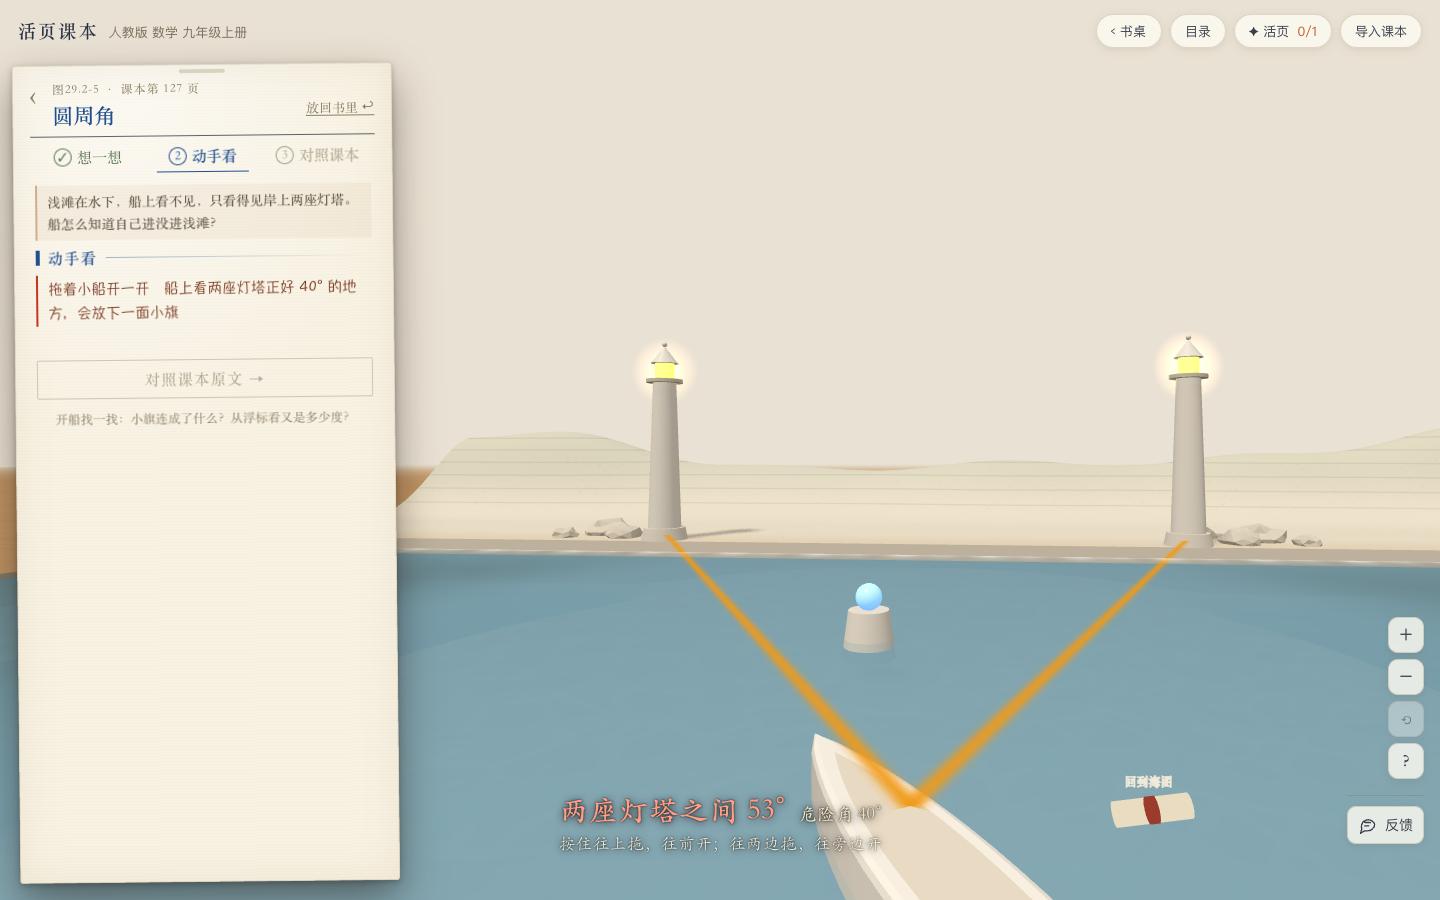
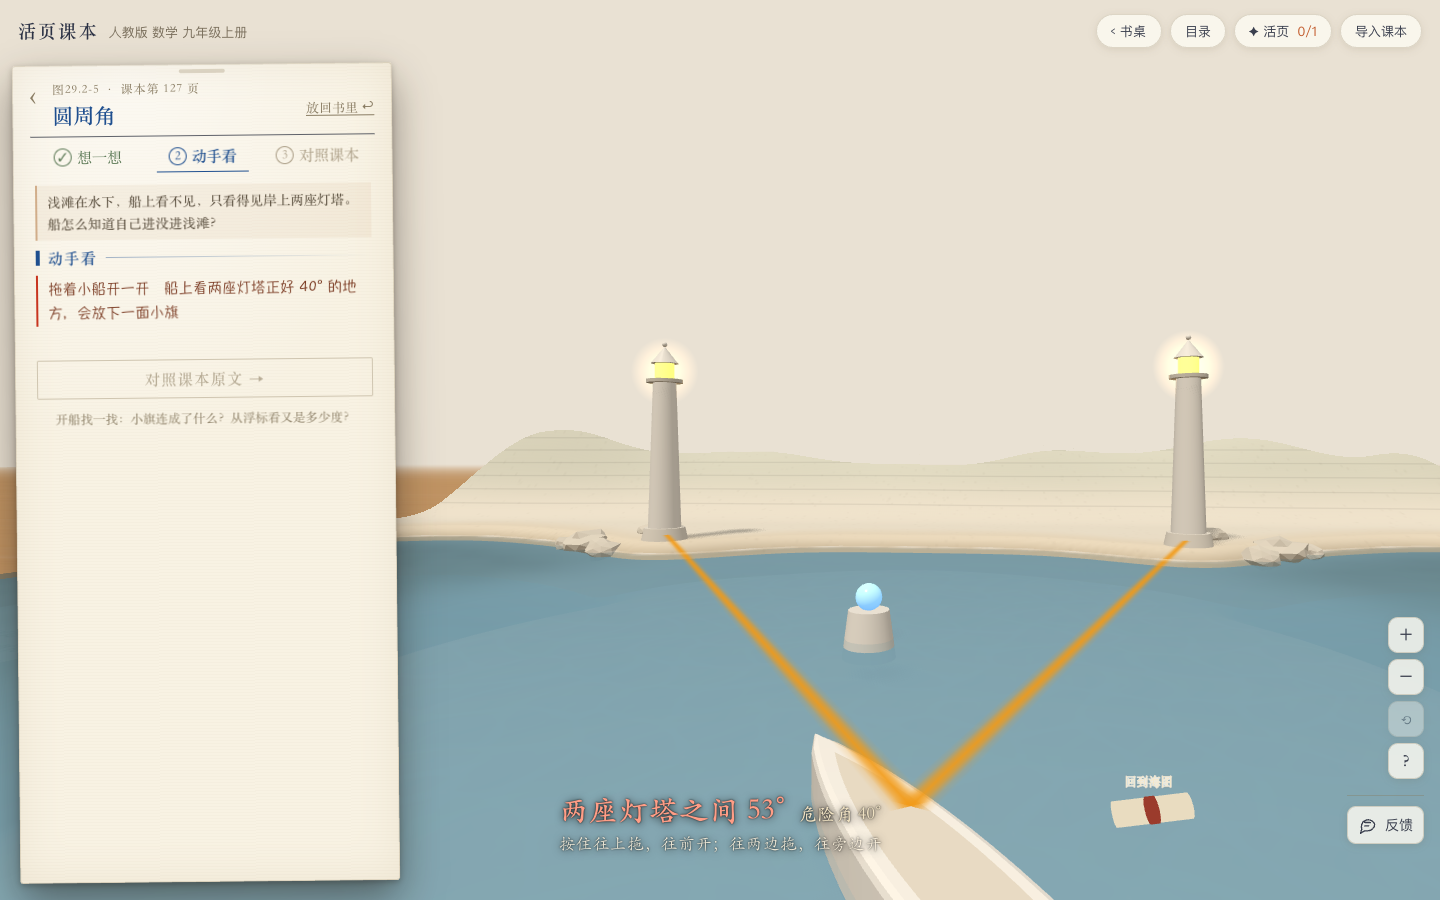
数学圆周角大建模：模型外形不再是方盒子——海那边切得齐整、四角圆，岸上那边边缘随地形起伏；四周的切面沿着外轮廓走一整圈（海那段是水和沙层，岸上那段跟着山形）

Changed region(s): [[0.2812, 0.4978, 1.0, 0.6533]]

diff --git a/src/lessons/inscribed.js b/src/lessons/inscribed.js
@@ -33,6 +33,11 @@ const dirO = (p) => Math.atan2(p[1] - O[1], p[0] - O[0]);
 const AB = dirO(B0), AC = dirO(C0) + TAU;                     // 圆在海里的那段弧：从 B 逆时针经过最下面到 C
 const shore = (u) => { const a = Math.abs(u); return 0.06 - 0.016 * Math.exp(-(((a - 0.06) / 0.022) ** 2)) + 0.012 * Math.exp(-(((a - 0.125) / 0.03) ** 2)); };          // 海岸线：两座灯塔站在伸进海里的岬角上，岬角外侧各有一个小湾
 const VMAX = 0.076;          // 水面、海底一直铺到这里（被岸盖住的那部分看不见）
+const OUT_BX = 0.172, OUT_CY = (-0.172 + 0.135) / 2, OUT_BY = (0.135 + 0.172) / 2, OUT_R = 0.036;
+const sm = (a, b, x) => { const t = Math.min(1, Math.max(0, (x - a) / (b - a))); return t * t * (3 - 2 * t); };
+const outD = (u, v) => { const qx = Math.abs(u) - OUT_BX + OUT_R, qy = Math.abs(v - OUT_CY) - OUT_BY + OUT_R; const base = Math.hypot(Math.max(qx, 0), Math.max(qy, 0)) + Math.min(Math.max(qx, qy), 0) - OUT_R; return base + sm(0.05, 0.1, v) * (0.0098 + 0.0045 * Math.sin(u * 47 + 1.3) + 0.0015 * Math.sin(u * 113) + 0.0035 * Math.sin(v * 71) * sm(0.1, 0.16, Math.abs(u))); };          // 模型外轮廓：小于 0 在里面
+const f5 = (x) => x.toFixed(5);
+const OUT_FN = `float outD(vec2 p){ vec2 q = vec2(abs(p.x) - ${f5(OUT_BX - OUT_R)}, abs(p.y - (${f5(OUT_CY)})) - ${f5(OUT_BY - OUT_R)}); float base = length(max(q, 0.0)) + min(max(q.x, q.y), 0.0) - ${f5(OUT_R)}; return base + smoothstep(0.05, 0.1, p.y) * (0.0098 + 0.0045 * sin(p.x * 47.0 + 1.3) + 0.0015 * sin(p.x * 113.0) + 0.0035 * sin(p.y * 71.0) * smoothstep(0.1, 0.16, abs(p.x))); }`;
 const inSea = (p) => p[0] > SEA.u0 + 0.008 && p[0] < SEA.u1 - 0.008 && p[1] > SEA.v0 + 0.008 && p[1] < shore(p[0]) - 0.012;
 const central = () => angAt(O, B0, C0);
 
@@ -62,6 +67,7 @@ export default {
     const root = new THREE.Group(); root.add(group); group.position.y = H;
     const tex = (w, h, draw) => { const c = document.createElement('canvas'); c.width = w; c.height = h; draw(c.getContext('2d'), w, h); const t = new THREE.CanvasTexture(c); t.colorSpace = THREE.SRGBColorSpace; t.anisotropy = 8; return t; };
     const basic = (o) => new THREE.MeshBasicMaterial(o);
+    const clip = (mat, ox, oz, name) => { const prev = mat.onBeforeCompile; mat.onBeforeCompile = (sh, r) => { if (prev) prev.call(mat, sh, r); sh.uniforms.uOff = { value: new THREE.Vector2(ox, oz) }; sh.vertexShader = sh.vertexShader.replace('#include <common>', '#include <common>\nuniform vec2 uOff; varying vec2 vPaper;').replace('#include <begin_vertex>', '#include <begin_vertex>\nvPaper = vec2(position.x + uOff.x, -(position.z + uOff.y));'); sh.fragmentShader = sh.fragmentShader.replace('#include <common>', '#include <common>\nvarying vec2 vPaper;\n' + OUT_FN).replace('#include <clipping_planes_fragment>', '#include <clipping_planes_fragment>\nif (outD(vPaper) > 0.0) discard;'); }; mat.customProgramCacheKey = () => 'clip-' + name; return mat; };          // 模型外轮廓外面的那部分不画
     const quiet = (m) => { m.raycast = () => {}; m.userData.noFrame = true; return m; };
     const lit = (o) => new THREE.MeshStandardMaterial({ roughness: 0.8, metalness: 0, ...o });
     const solid = (m) => { m.castShadow = true; m.receiveShadow = true; m.raycast = () => {}; m.userData.noFrame = true; return m; };
@@ -84,14 +90,15 @@ export default {
       g.setAttribute('color', new THREE.BufferAttribute(col, 3)); g.computeVertexNormals();
       const bm = lit({ vertexColors: true, roughness: 0.95, emissive: 0xfffbf0, emissiveIntensity: 0.12, emissiveMap: caustTex });
       bm.onBeforeCompile = (sh) => { sh.fragmentShader = sh.fragmentShader.replace('#include <emissivemap_fragment>', '#include <emissivemap_fragment>\n\ttotalEmissiveRadiance *= smoothstep(0.62, 0.92, vColor.r);'); };          // 光纹只在浅的沙上
-      const bed = quiet(new THREE.Mesh(g, bm)); bed.receiveShadow = true; bed.userData.qaSupport = true; root.add(bed);
+      clip(bm, 0, 0, 'bed'); const bed = quiet(new THREE.Mesh(g, bm)); bed.receiveShadow = true; bed.userData.qaSupport = true; root.add(bed);
     }
     // 切面：上面是水（海里那段）或岸，下面是一层层的沙、泥、岩石
     const YM = H + LAND_H;
     // 岸上的地形：靠海那一带是平的（弧 BC、视线都画在上面），往里慢慢起伏成一道低山，中间（两座灯塔背后）低一点
     const HILL = 0.04, TOP = YM + HILL;
     const hill = (u, v) => { const k = smooth(0.084, BACK_V - 0.002, v), side = 0.58 + 0.42 * smooth(0.02, 0.17, Math.abs(u)), roll = 0.84 + 0.1 * Math.sin(u * 37 + 0.8) + 0.06 * Math.sin(u * 83 - 0.4); return HILL * k * Math.sqrt(k) * side * roll; };
-    const faceTex = (sample) => tex(1024, 200, (g, w, hp) => {
+    const landH = (u, v) => { const sh = shore(u); return hill(u, v) - (LAND_H + 0.0015) * smooth(sh + 0.003, sh - 0.005, v) - 0.016 * smooth(sh - 0.004, sh - 0.012, v); };          // 岸上的高度（比平地高多少；岸线前面斜下去）
+    const faceTex = (sample, W0 = 1024) => tex(W0, 200, (g, w, hp) => {
       const Y = (y) => hp * (1 - y / TOP);
       for (let i = 0; i < w; i++) {
         const s = sample((i + 0.5) / w), top = s.land ? s.top ?? YM : s.bed;
@@ -103,27 +110,36 @@ export default {
     });
     const face = (w, sample, x, z, ry) => { const m = quiet(new THREE.Mesh(new THREE.PlaneGeometry(w, TOP), lit({ map: faceTex(sample), transparent: true, alphaTest: 0.5, roughness: 0.9 }))); m.position.set(x, TOP / 2, z); m.rotation.y = ry; m.receiveShadow = true; m.userData.qaSupport = true; root.add(m); };
     const sideAt = (u, front) => (t) => { const v = front ? SEA.v0 + t * (BACK_V - SEA.v0) : BACK_V - t * (BACK_V - SEA.v0); return v >= shore(u) ? { land: true, top: YM + Math.max(0, hill(u, v)) } : { bed: H - depth(u, v) }; };
-    face(seaW, (t) => ({ bed: H - depth(SEA.u0 + t * seaW, SEA.v0) }), uc, -SEA.v0, 0);
-    face(BACK_V - SEA.v0, sideAt(SEA.u0, false), SEA.u0, -(SEA.v0 + BACK_V) / 2, -Math.PI / 2);
-    face(BACK_V - SEA.v0, sideAt(SEA.u1, true), SEA.u1, -(SEA.v0 + BACK_V) / 2, Math.PI / 2);
-    face(seaW, (t) => ({ land: true, top: YM + hill(SEA.u1 - t * seaW, BACK_V) }), uc, -BACK_V, Math.PI);
+    void face; void sideAt;
+    { // 四周的切面：沿着外轮廓走一圈（海那边是水和沙层，岸上那边跟着地形起伏）
+      const N = 440, pts = [];
+      for (let i = 0; i < N; i++) { const a = (i / N) * TAU, d = [Math.cos(a), Math.sin(a)]; let lo = 0, hi = 0.34; for (let k = 0; k < 40; k++) { const m2 = (lo + hi) / 2; if (outD(d[0] * m2, OUT_CY + d[1] * m2) > 0) hi = m2; else lo = m2; } pts.push([d[0] * lo, OUT_CY + d[1] * lo]); }
+      const Ls = [0]; for (let i = 1; i <= N; i++) Ls.push(Ls[i - 1] + dist(pts[i - 1], pts[i % N])); const per = Ls[N];
+      const surf = (u, v) => (v < shore(u) ? { bed: H - depth(u, v) } : { land: true, top: YM + Math.max(0, landH(u, v)) });
+      const wt = faceTex((t) => { const x = t * per; let i = 0; while (i < N - 1 && Ls[i + 1] < x) i++; const f = (x - Ls[i]) / (Ls[i + 1] - Ls[i] || 1), a = pts[i], b = pts[(i + 1) % N]; return surf(a[0] + (b[0] - a[0]) * f, a[1] + (b[1] - a[1]) * f); }, 4096);
+      const pos = [], uvs = [], idx = [];
+      for (let i = 0; i <= N; i++) { const q = pts[i % N]; pos.push(q[0], 0, -q[1], q[0], TOP, -q[1]); uvs.push(Ls[i] / per, 0, Ls[i] / per, 1); if (i < N) idx.push(2 * i, 2 * i + 2, 2 * i + 1, 2 * i + 1, 2 * i + 2, 2 * i + 3); }
+      const wg2 = new THREE.BufferGeometry(); wg2.setAttribute('position', new THREE.Float32BufferAttribute(pos, 3)); wg2.setAttribute('uv', new THREE.Float32BufferAttribute(uvs, 2)); wg2.setIndex(idx); wg2.computeVertexNormals();
+      const n0 = new THREE.Vector3().fromBufferAttribute(wg2.attributes.normal, 0); if (n0.x * pts[0][0] - n0.z * (pts[0][1] - OUT_CY) < 0) { const ix = wg2.index.array; for (let i = 0; i < ix.length; i += 3) { const tmp = ix[i + 1]; ix[i + 1] = ix[i + 2]; ix[i + 2] = tmp; } wg2.index.needsUpdate = true; wg2.computeVertexNormals(); }          // 法线朝外
+      const wall = quiet(new THREE.Mesh(wg2, lit({ map: wt, transparent: true, alphaTest: 0.5, roughness: 0.9 }))); wall.receiveShadow = true; wall.userData.qaSupport = true; root.add(wall);
+    }
     { // 岸：一条矮矮的沙滩、后面是草地；岸线那一面是沙和石头
       const top = tex(1024, 256, (g, w, h) => {
         const gr = g.createLinearGradient(0, h, 0, 0); gr.addColorStop(0, '#f1ece2'); gr.addColorStop(0.2, '#f4f0e8'); gr.addColorStop(1, '#f6f3ed'); g.fillStyle = gr; g.fillRect(0, 0, w, h);
         for (let k = 0; k < 2600; k++) { g.fillStyle = `rgba(120,110,95,${Math.random() * 0.05})`; g.fillRect(Math.random() * w, Math.random() * h, 2, 2); }
       });
       const VL0 = 0.034, lg = new THREE.PlaneGeometry(seaW, BACK_V - VL0, 190, 72).rotateX(-Math.PI / 2), lp = lg.attributes.position, lc = new Float32Array(lp.count * 3), cc = new THREE.Color(), SANDL = new THREE.Color(0xf2eadb), FLAT = new THREE.Color(0xf5f2ea), SLOPE = new THREE.Color(0xe6e9de), WET = new THREE.Color(0xd8cdb9);
-      for (let i = 0; i < lp.count; i++) { const u = lp.getX(i) + uc, v = -lp.getZ(i) + (VL0 + BACK_V) / 2, sh = shore(u), hh = hill(u, v) - (LAND_H + 0.0015) * smooth(sh + 0.003, sh - 0.005, v) - 0.016 * smooth(sh - 0.004, sh - 0.012, v); lp.setY(i, hh); cc.copy(SANDL).lerp(FLAT, smooth(sh + 0.002, sh + 0.02, v)).lerp(SLOPE, smooth(0.0015, 0.016, hh)).lerp(WET, smooth(-0.0005, -0.003, hh)); lc[i * 3] = cc.r; lc[i * 3 + 1] = cc.g; lc[i * 3 + 2] = cc.b; }
+      for (let i = 0; i < lp.count; i++) { const u = lp.getX(i) + uc, v = -lp.getZ(i) + (VL0 + BACK_V) / 2, sh = shore(u), hh = landH(u, v); lp.setY(i, hh); cc.copy(SANDL).lerp(FLAT, smooth(sh + 0.002, sh + 0.02, v)).lerp(SLOPE, smooth(0.0015, 0.016, hh)).lerp(WET, smooth(-0.0005, -0.003, hh)); lc[i * 3] = cc.r; lc[i * 3 + 1] = cc.g; lc[i * 3 + 2] = cc.b; }
       lg.setAttribute('color', new THREE.BufferAttribute(lc, 3)); lg.computeVertexNormals();
       const lm = lit({ map: top, vertexColors: true, roughness: 0.95 });
       lm.onBeforeCompile = (sh) => {          // 山坡上细细的等高线（像地形模型一层层的边）
         sh.vertexShader = sh.vertexShader.replace('#include <common>', '#include <common>\nvarying float vHy;').replace('#include <begin_vertex>', '#include <begin_vertex>\nvHy = position.y;');
         sh.fragmentShader = sh.fragmentShader.replace('#include <common>', '#include <common>\nvarying float vHy;').replace('#include <color_fragment>', '#include <color_fragment>\n{ float hh = vHy / 0.0042; float f = abs(fract(hh - 0.5) - 0.5) / max(fwidth(hh), 1e-4); diffuseColor.rgb *= 1.0 - 0.14 * (1.0 - smoothstep(0.0, 1.3, f)) * step(0.0011, vHy); }');
       };
-      const t = quiet(new THREE.Mesh(lg, lm)); t.position.set(uc, YM, -(VL0 + BACK_V) / 2); t.receiveShadow = true; t.castShadow = true; root.add(t);
+      clip(lm, uc, -(VL0 + BACK_V) / 2, 'land'); const t = quiet(new THREE.Mesh(lg, lm)); t.position.set(uc, YM, -(VL0 + BACK_V) / 2); t.receiveShadow = true; t.castShadow = true; root.add(t);
       // 灯塔脚下外侧几块礁石（只放在外侧和后面，不挡弧 BC、不挡视线）
       const rockMat = lit({ color: 0xe0d9cb, roughness: 0.93, flatShading: true });
-      const groundAt = (u, v) => { const sh = shore(u); return YM + hill(u, v) - (LAND_H + 0.0015) * smooth(sh + 0.003, sh - 0.005, v) - 0.016 * smooth(sh - 0.004, sh - 0.012, v); };
+      const groundAt = (u, v) => YM + landH(u, v);
       const rock = (u, v, r, sy, rot) => { const g = new THREE.IcosahedronGeometry(r, 1), p = g.attributes.position; for (let i = 0; i < p.count; i++) { const x = p.getX(i), y = p.getY(i), z = p.getZ(i), n = 1 + 0.2 * Math.sin(x * 2100 + y * 1700) * Math.cos(z * 1900 + 0.5); p.setXYZ(i, x * n, y * n * sy, z * n); } g.computeVertexNormals(); const m = solid(new THREE.Mesh(g, rockMat)); m.position.set(u, groundAt(u, v) + r * sy * 0.3, -v); m.rotation.y = rot; root.add(m); };
       for (const [cu, o] of [[B0[0], -1], [C0[0], 1]]) { rock(cu + o * 0.014, 0.0478, 0.0042, 0.62, 0.4); rock(cu + o * 0.021, 0.054, 0.0056, 0.5, 1.2); rock(cu + o * 0.009, 0.062, 0.0036, 0.56, 2.1); rock(cu + o * 0.029, 0.058, 0.0032, 0.6, 0.9); }
     }
@@ -138,13 +154,13 @@ export default {
     const seaAlpha = tex(256, 160, (g, w, h) => { const img = g.createImageData(w, h); for (let y = 0; y < h; y++) for (let x = 0; x < w; x++) { const u = SEA.u0 + (x / (w - 1)) * seaW, v = SEA.v0 + (1 - y / (h - 1)) * seaD, k = clamp((depth(u, v) - 0.0047) / 0.0118, 0, 1), a = Math.round(255 * (0.18 + 0.36 * k)), o = (y * w + x) * 4; img.data[o] = img.data[o + 1] = img.data[o + 2] = a; img.data[o + 3] = 255; } g.putImageData(img, 0, 0); });
     seaAlpha.colorSpace = THREE.NoColorSpace;          // 水的浓淡跟着水深：外海浓、浅滩清
     const sea = new THREE.Mesh(new THREE.PlaneGeometry(seaW, seaD).rotateX(-Math.PI / 2), new THREE.MeshPhysicalMaterial({ color: 0x8cb8c6, transparent: true, opacity: 1, alphaMap: seaAlpha, roughness: 0.06, metalness: 0, clearcoat: 1, clearcoatRoughness: 0.05, normalMap: waves, normalScale: new THREE.Vector2(0.16, 0.16), depthWrite: false }));
-    sea.position.set(uc, 0.0004, -vc); sea.receiveShadow = true; sea.renderOrder = -1; group.add(sea);          // 水面先画：上面的线、角不被水染成别的颜色
+    clip(sea.material, uc, -vc, 'sea'); sea.position.set(uc, 0.0004, -vc); sea.receiveShadow = true; sea.renderOrder = -1; group.add(sea);          // 水面先画：上面的线、角不被水染成别的颜色
     const foamTex = tex(512, 32, (g, w, h) => { for (let x = 0; x < w; x++) { const a = 0.55 + 0.45 * Math.sin(x * 0.11) * Math.sin(x * 0.037 + 1.3); const gr = g.createLinearGradient(0, 0, 0, h); gr.addColorStop(0, `rgba(255,255,255,${0.95 * a})`); gr.addColorStop(0.35, `rgba(255,255,255,${0.45 * a})`); gr.addColorStop(1, 'rgba(255,255,255,0)'); g.fillStyle = gr; g.fillRect(x, 0, 1, h); } });
     foamTex.wrapS = THREE.RepeatWrapping; foamTex.repeat.set(3, 1);
     const foamGeo = (() => { const pos = [], uvs = [], idx = [], N = 160; for (let i = 0; i <= N; i++) { const u = SEA.u0 + (seaW * i) / N, sh = shore(u); pos.push(u, 0, -(sh + 0.0008), u, 0, -(sh - 0.0058)); uvs.push((3 * i) / N, 1, (3 * i) / N, 0); if (i < N) idx.push(2 * i, 2 * i + 1, 2 * i + 2, 2 * i + 2, 2 * i + 1, 2 * i + 3); } const g = new THREE.BufferGeometry(); g.setAttribute('position', new THREE.Float32BufferAttribute(pos, 3)); g.setAttribute('uv', new THREE.Float32BufferAttribute(uvs, 2)); g.setIndex(idx); return g; })();
     foamTex.repeat.set(1, 1);
     const foam = quiet(new THREE.Mesh(foamGeo, basic({ map: foamTex, transparent: true, opacity: 0.7, depthWrite: false, side: THREE.DoubleSide })));
-    foam.position.set(0, 0.0007, 0); foam.renderOrder = 1; group.add(foam);          // 岸边的浪花（画在水面上、沿着岸线）
+    clip(foam.material, 0, 0, 'foam'); foam.position.set(0, 0.0007, 0); foam.renderOrder = 1; group.add(foam);          // 岸边的浪花（画在水面上、沿着岸线）
     // 数学那一层：比岸顶高一点点，线一直画到灯塔脚下也不会钻进岸里
     const ink = new THREE.Group(); ink.position.y = LAND_H + 0.0003; group.add(ink);
 
@@ -340,7 +356,9 @@ export default {
       uniforms: { B: { value: new THREE.Vector2(B0[0], -B0[1]) }, C: { value: new THREE.Vector2(C0[0], -C0[1]) }, th0: { value: DANGER * DEG }, k: { value: 0 }, capTop: { value: CAP_TOP }, inv: { value: new THREE.Matrix4() } },
       vertexShader: 'uniform mat4 inv; varying vec2 w; void main(){ vec4 p = modelMatrix * vec4(position, 1.); w = (inv * p).xz; gl_Position = projectionMatrix * viewMatrix * p; }',
       fragmentShader: `uniform vec2 B; uniform vec2 C; uniform float th0; uniform float k; uniform float capTop; varying vec2 w;
+        ${OUT_FN}
         void main(){
+          if (outD(vec2(w.x, -w.y)) > 0.0) discard;
           vec2 a = normalize(B - w), b = normalize(C - w);
           float d = degrees(acos(clamp(dot(a, b), -1., 1.)));
           float fw = fwidth(d) + 1e-4;
@@ -415,7 +433,7 @@ export default {
     callRing.position.y = 0.0016; ink.add(callRing);
     // 浅滩一开始藏在水下看不见：一层和深水一样颜色的“水色”盖着，揭开时淡掉
     const murk = quiet(new THREE.Mesh(new THREE.PlaneGeometry(seaW, seaD).rotateX(-Math.PI / 2), basic({ color: 0x7aa1b0, transparent: true, opacity: 0.94, depthWrite: false })));
-    murk.position.set(uc, -0.0006, -vc); murk.renderOrder = -2; group.add(murk);
+    clip(murk.material, uc, -vc, 'murk'); murk.position.set(uc, -0.0006, -vc); murk.renderOrder = -2; group.add(murk);
 
     const tickPts = (p, q) => { const m = mid(p, q), n = mul(unit([-(q[1] - p[1]), q[0] - p[0]]), 0.003); return [sub(m, n), add(m, n)]; };
     const liveO = () => [0, 0.05 - 0.06 / Math.tan(Math.max(0.2, theta()))];          // 过两座灯塔和船的那个圆的圆心
